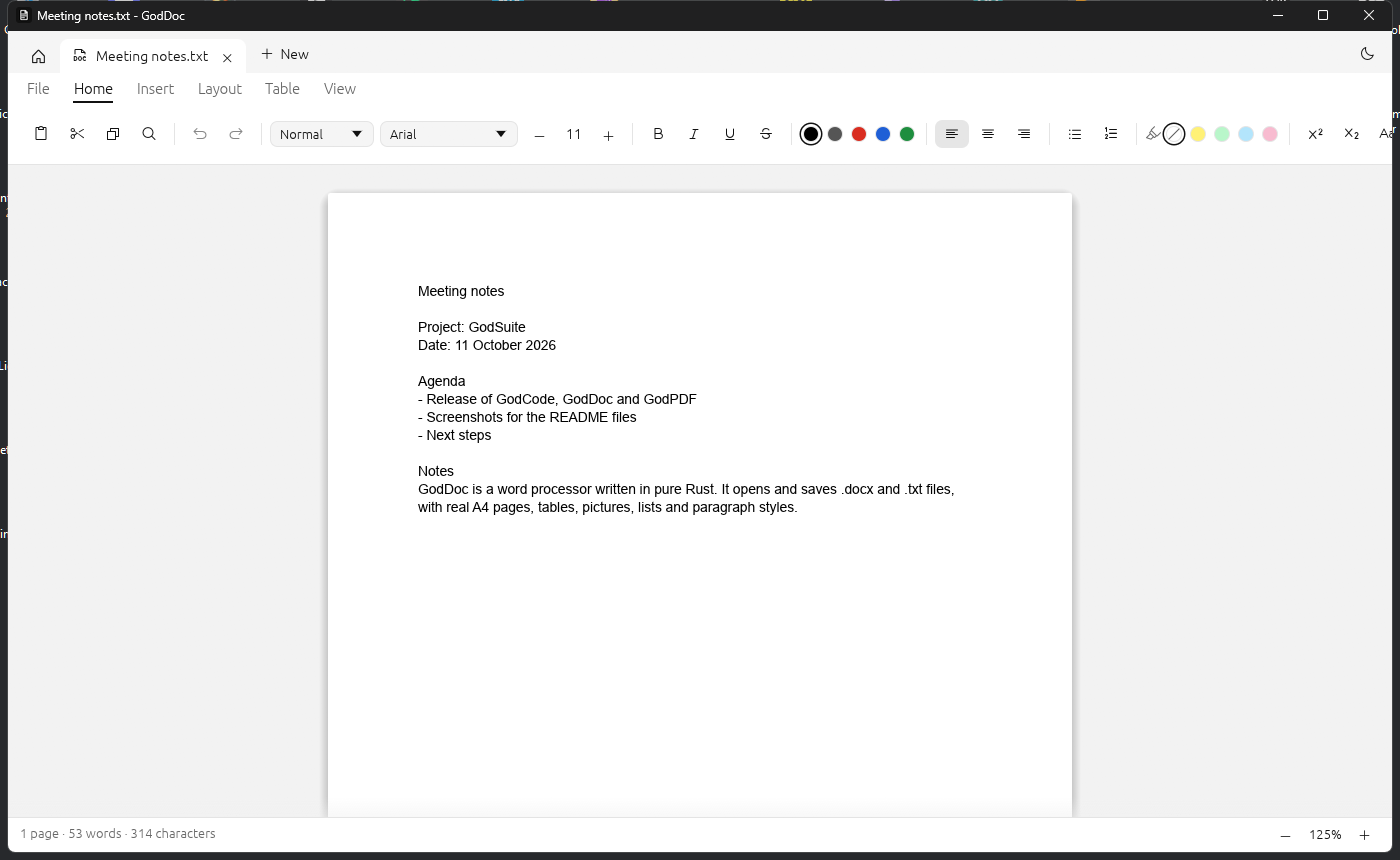
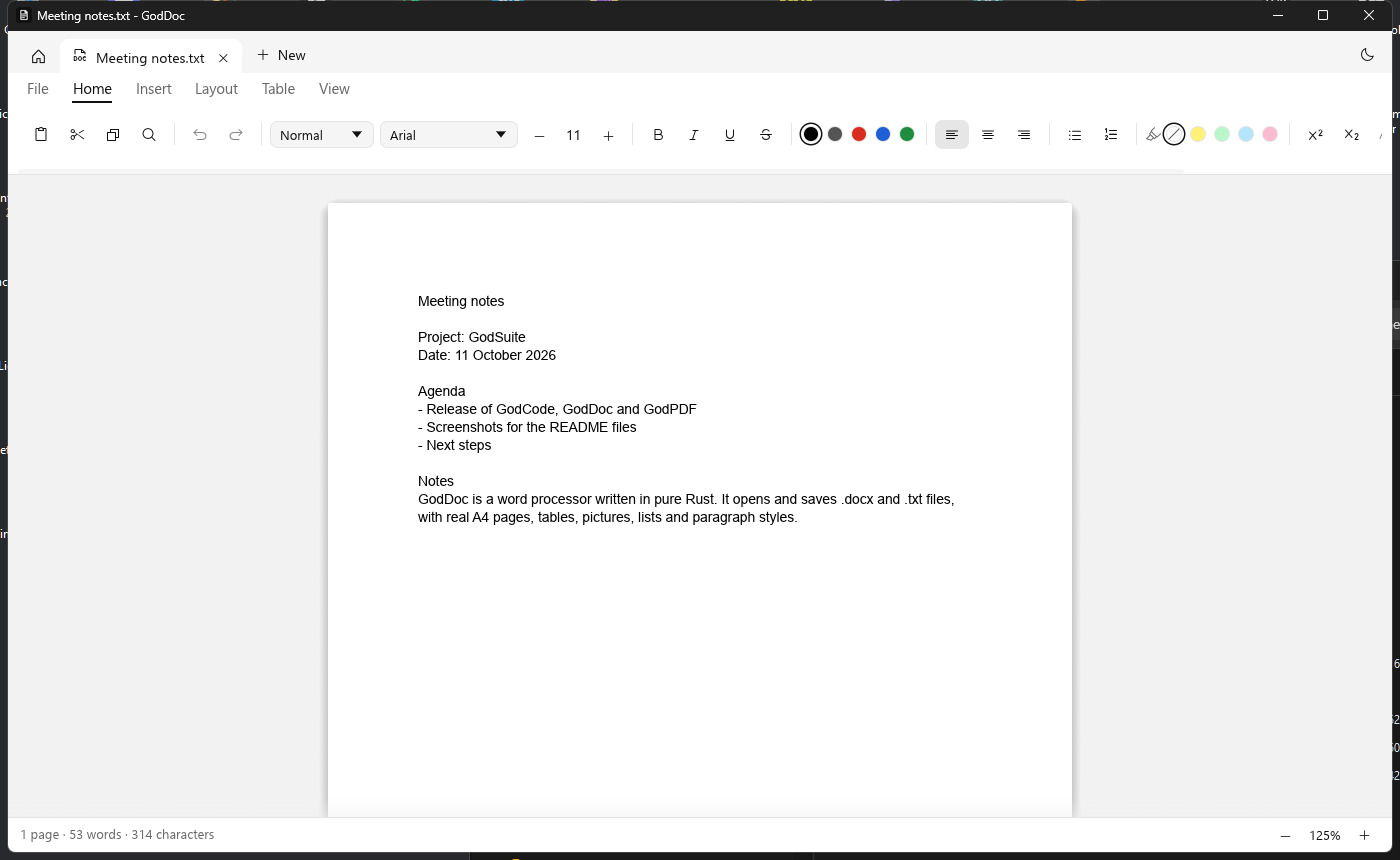
feat: the interface is drawn with the font of the system
Segoe UI on Windows; the font that comes with egui stays behind it.

diff --git a/crates/app/src/app.rs b/crates/app/src/app.rs
@@ -80,6 +80,20 @@ enum Flag {
     Strike,
 }
 
+/// Draw the interface with the font of the system (Segoe UI on Windows) when it is there;
+/// the one that comes with egui stays behind it, for what it lacks.
+fn system_ui_font(fonts: &mut egui::FontDefinitions) {
+    let folder = std::env::var_os("WINDIR").map(std::path::PathBuf::from);
+    let file = folder.map(|folder| folder.join("Fonts").join("segoeui.ttf"));
+    let Some(bytes) = file.and_then(|file| std::fs::read(file).ok()) else {
+        return;
+    };
+    let data = egui::FontData::from_owned(bytes);
+    fonts.font_data.insert("system-ui".to_owned(), data.into());
+    let family = fonts.families.entry(egui::FontFamily::Proportional);
+    family.or_default().insert(0, "system-ui".to_owned());
+}
+
 impl Flag {
     fn of(self, format: &mut Format) -> &mut bool {
         match self {
@@ -512,6 +526,7 @@ impl GodApp {
         theme::install(&cc.egui_ctx, dark);
         let mut fonts = egui::FontDefinitions::default();
         egui_phosphor::add_to_fonts(&mut fonts, egui_phosphor::Variant::Regular);
+        system_ui_font(&mut fonts);
         layout::install_fonts(&mut fonts);
         cc.egui_ctx.set_fonts(fonts);
         let mut app = Self {
